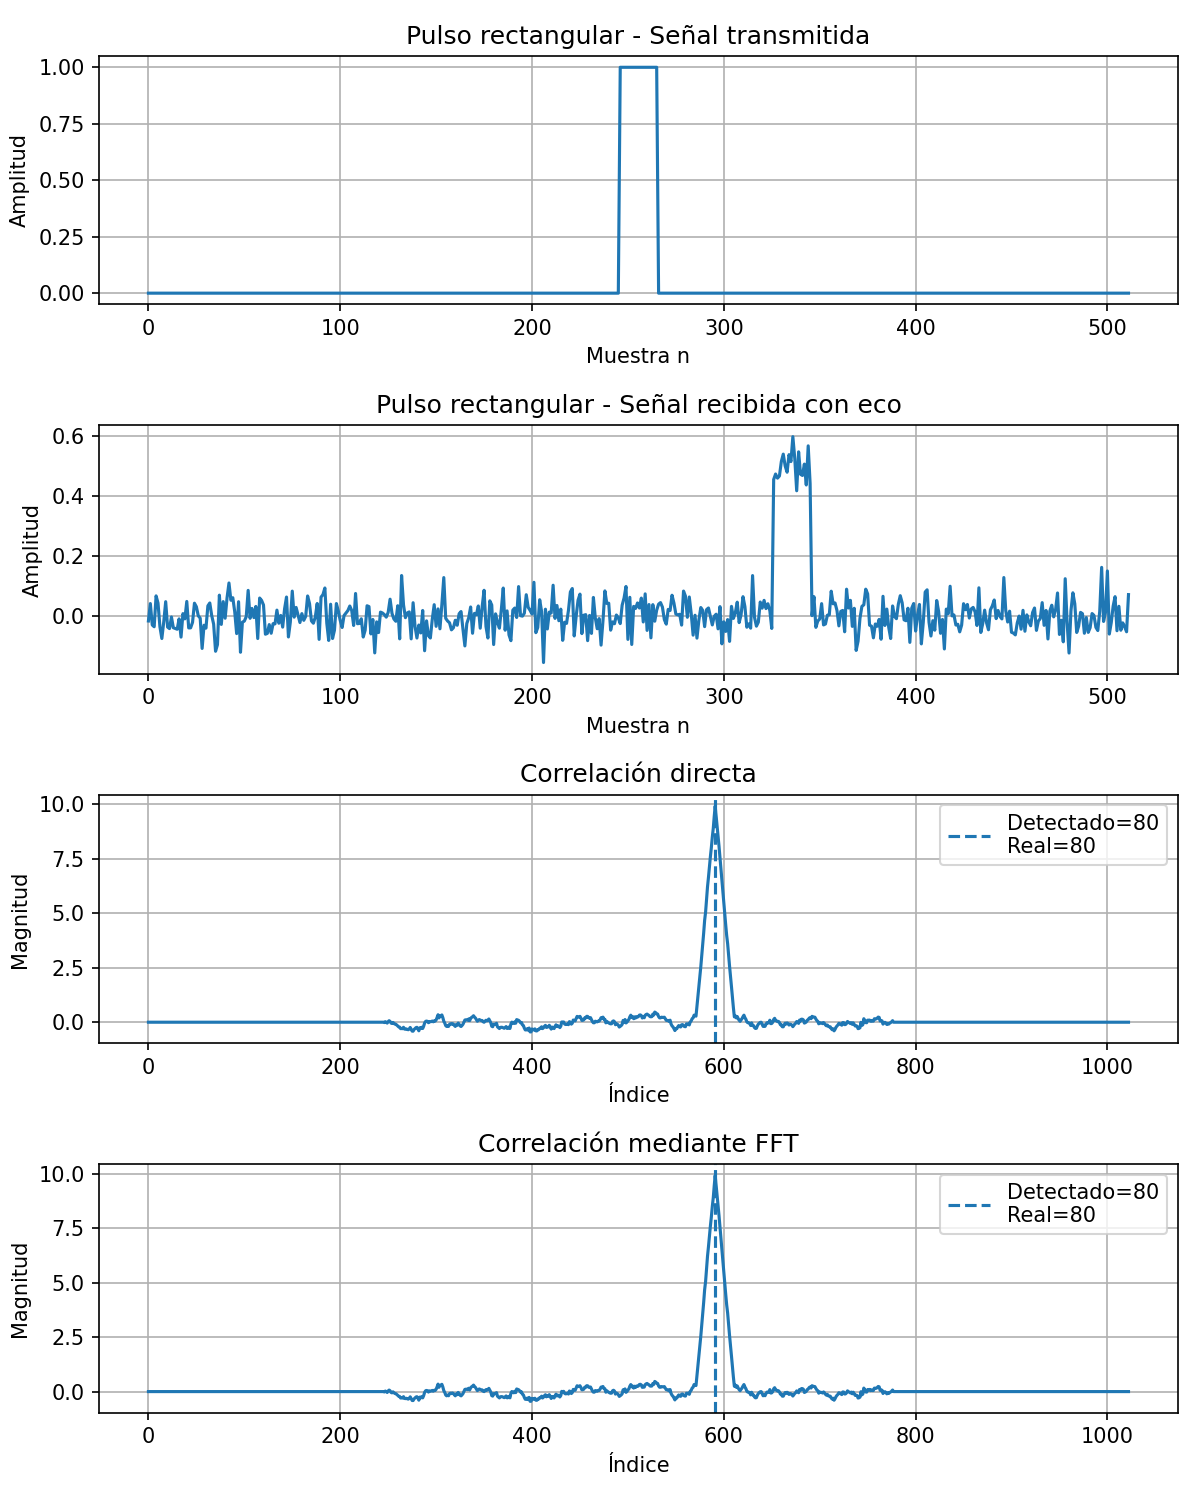
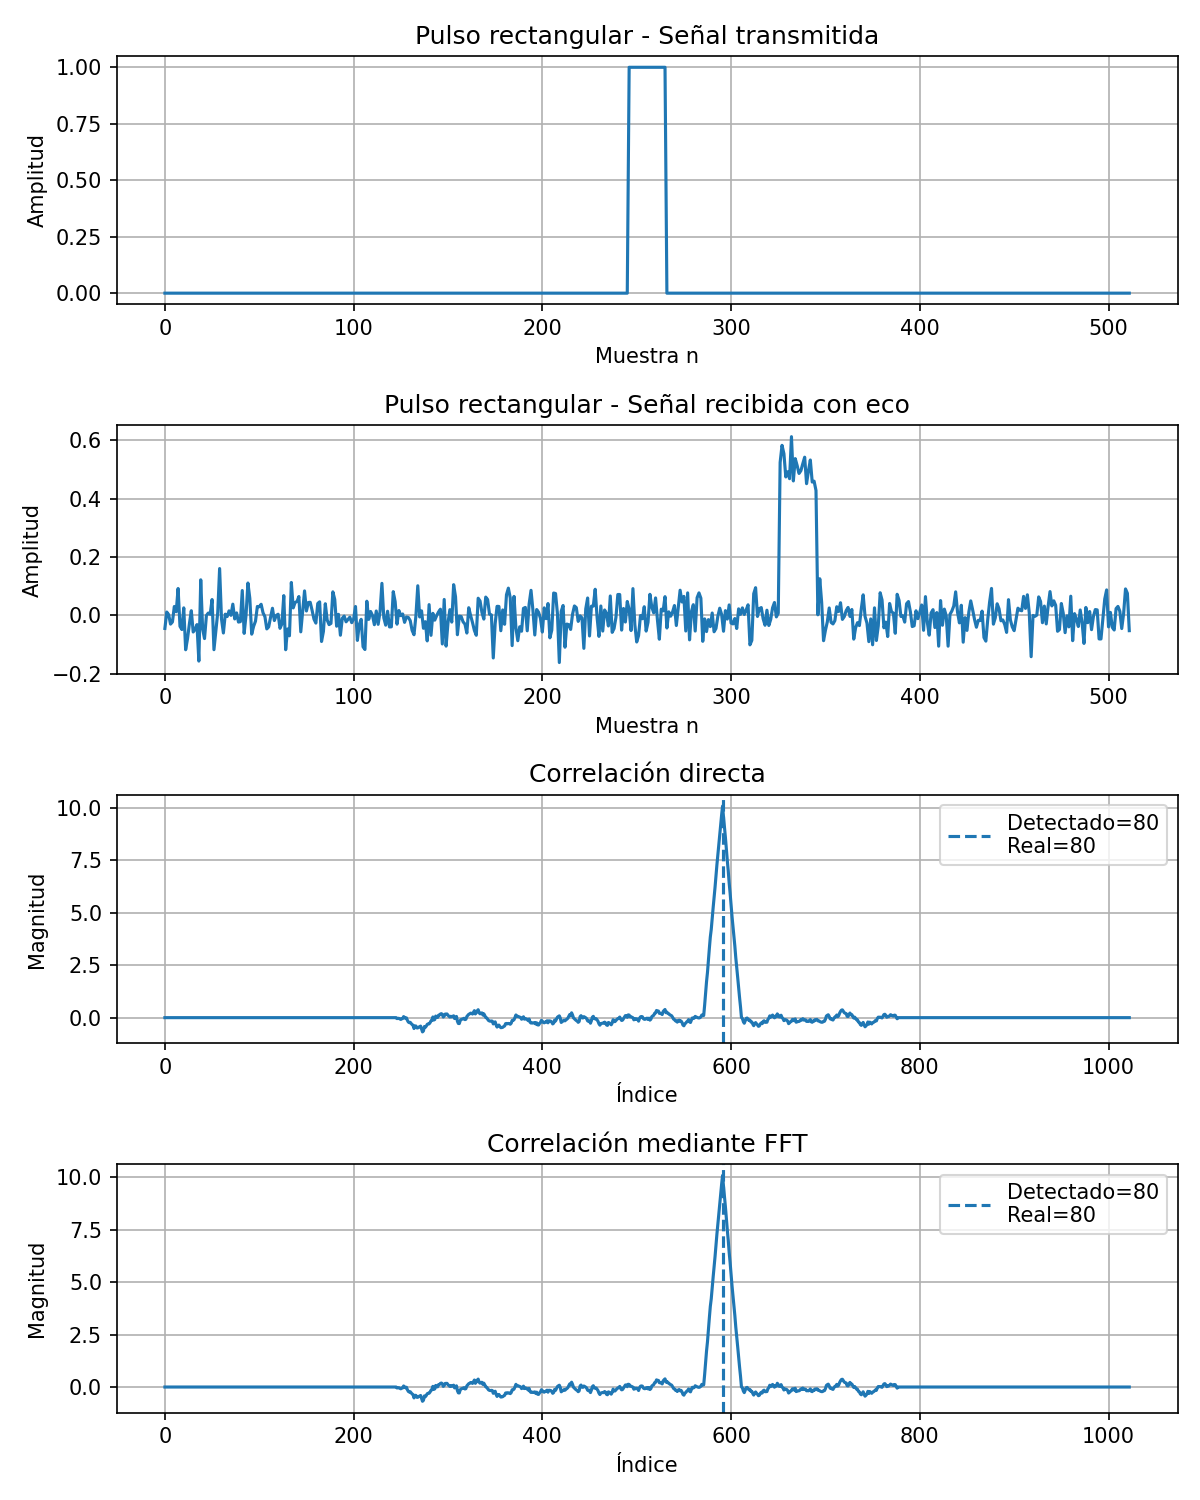
[Update] Make files and code documentation

diff --git a/FFT&DFT/signals.py b/FFT&DFT/signals.py
@@ -1,14 +1,17 @@
 import numpy as np
 
+# Este archivo genera señales básicas utilizadas para pruebas de FFT, DFT y análisis espectral.
+# Cada función crea un tipo de señal distinta, útil para comparar cómo se comportan en frecuencia.
 
-# señal senoidal de una sola frecuencia f0 (Hz), muestreada a fs (Hz)
+
+# Señal senoidal de una sola frecuencia f0 (Hz), muestreada a fs (Hz).
 def tono_puro(N, fs, f0, amplitud=1.0):
     n = np.arange(N)
     t = n / fs
     return amplitud * np.sin(2 * np.pi * f0 * t)
 
 
-#Suma de varias senoidales de distinta frecuencia
+# Suma de varias senoidales de distinta frecuencia.
 def suma_de_tonos(N, fs, frecuencias, amplitudes=None):
     if amplitudes is None:
         amplitudes = [1.0] * len(frecuencias)
@@ -20,21 +23,33 @@ def suma_de_tonos(N, fs, frecuencias, amplitudes=None):
         x += a * np.sin(2 * np.pi * f * t)
     return x
 
-#señal con ruido blanco gaussiano,relación señal a ruidoen dB
+
+# Señal con ruido blanco gaussiano, con una relación señal a ruido dada en dB.
 def senal_con_ruido(x, snr_db=20.0):
     potencia_senal = np.mean(x ** 2)
     potencia_ruido = potencia_senal / (10 ** (snr_db / 10))
     ruido = np.sqrt(potencia_ruido) * np.random.randn(len(x))
     return x + ruido
 
-    #un solo pulso rectangular corto centrado dentro de una señal de N muestras
+
+# Señal de prueba para benchmarking: combina una senoide con un ruido leve.
+# Es útil para comparar tiempos de ejecución de FFT y DFT porque es repetible y realista.
+def senal_de_prueba_benchmark(N, f0=5.0, snr_db=20.0):
+    n = np.arange(N)
+    x = np.sin(2 * np.pi * f0 * n / N)
+    return senal_con_ruido(x, snr_db=snr_db)
+
+
+# Genera un solo pulso rectangular centrado dentro de la señal.
 def pulso_rectangular(N, ancho_pulso, amplitud=1.0):
     x = np.zeros(N)
     inicio = N // 2 - ancho_pulso // 2
     x[inicio:inicio + ancho_pulso] = amplitud
     return x
 
-#secuencia de pulsos rectangulares idénticos, igualmente espaciados -LA QUE YO PIENSO QUE NOS PUEDE SERVIR PARA EL PROYECTO
+
+# Genera varios pulsos rectangulares iguales y separados entre sí.
+# Es una señal útil para analizar ecos, detección de retrasos o patrones repetitivos.
 def secuencia_de_pulsos(N, ancho_pulso, num_pulsos, separacion, amplitud=1.0, inicio=0):
     x = np.zeros(N)
     pos = inicio
@@ -47,9 +62,8 @@ def secuencia_de_pulsos(N, ancho_pulso, num_pulsos, separacion, amplitud=1.0, in
     return x
 
 
-
-#este chirp es un barrido lineal de frecuencia, que va desde f_inicio hasta f_fin en N muestras
-#esta señal es la más compleja, pero es la que más papers tratan para lo q estamos haciendo.
+# Chirp lineal: la frecuencia cambia de forma progresiva de f_inicio a f_fin.
+# Esta señal es muy usada en procesamiento de señales porque tiene un espectro dinámico.
 def chirp_lineal(N, fs, f_inicio, f_fin, amplitud=1.0):
     n = np.arange(N)
     t = n / fs

diff --git a/FFT&DFT/graphics.py b/FFT&DFT/graphics.py
@@ -1,4 +1,9 @@
-"""Funciones compartidas para graficar señales, espectros y ecos."""
+"""Funciones compartidas para graficar señales, espectros y ecos.
+
+Este archivo ayuda a visualizar señales y también a analizar su contenido en frecuencia.
+Se usa para generar figuras de señales, magnitud y fase, así como para comparar
+la detección de ecos en señales transmitidas y recibidas.
+"""
 
 from pathlib import Path
 
@@ -19,6 +24,7 @@ CARPETA_GRAFICAS = Path(__file__).resolve().parent / "graphics"
 
 
 def _guardar_figura(fig, nombre, carpeta_graficas):
+    # Crea la carpeta si no existe y guarda la figura como imagen PNG.
     carpeta_graficas = Path(carpeta_graficas)
     carpeta_graficas.mkdir(parents=True, exist_ok=True)
     nombre_archivo = (
@@ -40,15 +46,18 @@ def _guardar_figura(fig, nombre, carpeta_graficas):
 
 def guardar_grafica_senal(nombre, x, fs, *, carpeta_graficas=CARPETA_GRAFICAS):
     """Guarda la señal en el tiempo y la magnitud y fase de su FFT."""
+    # Calcula la FFT de la señal para observar su contenido en frecuencia.
     X = fft_radix2(x)
     N_fft = len(X)
     frecuencias = np.fft.fftfreq(N_fft, d=1 / fs)
 
+    # Se toma solo la mitad positiva del espectro.
     mitad = N_fft // 2
     frecuencias_pos = frecuencias[:mitad]
     magnitud = np.abs(X[:mitad])
     fase = np.angle(X[:mitad])
 
+    # Se crean 3 subgráficas: tiempo, magnitud y fase.
     fig, (ax_tiempo, ax_mag, ax_fase) = plt.subplots(3, 1, figsize=(8, 8))
 
     ax_tiempo.plot(x)
@@ -82,6 +91,7 @@ def guardar_grafica_eco(
     carpeta_graficas=CARPETA_GRAFICAS,
 ):
     """Guarda las señales y sus correlaciones para la detección de ecos."""
+    # Muestra 4 gráficas: señal transmitida, señal recibida, correlación directa y correlación FFT.
     fig, axes = plt.subplots(4, 1, figsize=(8, 10))
 
     for ax, senal, titulo in (
@@ -115,7 +125,7 @@ def guardar_grafica_eco(
 
 
 def main():
-    # Datos que se deben modificar según lo que se quiera analizar.
+    # Se crean varias señales para observar su forma y su espectro.
     fs = 8000
     N = 256
 

diff --git a/FFT&DFT/comp_time.py b/FFT&DFT/comp_time.py
@@ -1,36 +1,45 @@
+# Compara el tiempo que tarda la DFT directa contra la FFT radix-2 para señales de distintos tamaños.
+# La idea es ver cómo cambia el rendimiento a medida que crece N.
+
 import time
-import numpy as np
 import matplotlib.pyplot as plt
 from pathlib import Path
 
 from dft import dft
 from fft import fft_radix2
+from signals import senal_de_prueba_benchmark
 
+# Carpeta donde se guarda la gráfica final
 CARPETA_GRAFICAS = Path(__file__).resolve().parent / "graphics"
 CARPETA_GRAFICAS.mkdir(exist_ok=True)
 
+# Tamaños de señal a probar.
+# N crece en potencias de 2 para comparar mejor el comportamiento.
 tamanos_N = [64, 128, 256, 512, 1024, 2048]
 
 tiempos_dft = []
 tiempos_fft = []
 tiempos_numpy = []
 
+# Se prueba cada tamaño de señal y se mide cuánto tarda cada método.
 for N in tamanos_N:
-    n = np.arange(N)
-    x = np.sin(2 * np.pi * 5 * n / N) + 0.3 * np.random.randn(N)
+    x = senal_de_prueba_benchmark(N)
 
+    # Medir tiempo de la DFT directa.
     inicio = time.perf_counter()
     dft(x)
     tiempos_dft.append(time.perf_counter() - inicio)
 
+    # Medir tiempo de la FFT propia.
     inicio = time.perf_counter()
     fft_radix2(x)
     tiempos_fft.append(time.perf_counter() - inicio)
 
+    # Mostrar resultados por consola.
     print(f"N={N:5d} | DFT directa: {tiempos_dft[-1]:.5f}s | "
           f"FFT propia: {tiempos_fft[-1]:.5f}s | ")
 
-# --- Gráfica log-log ---
+# Se usa escala logarítmica para comparar mejor la tendencia de crecimiento.
 plt.figure(figsize=(7, 5))
 plt.loglog(tamanos_N, tiempos_dft, "o-", label="DFT directa (O(N²))")
 plt.loglog(tamanos_N, tiempos_fft, "s-", label="FFT radix-2 propia (O(N log N))")
@@ -40,5 +49,5 @@ plt.title("Comparación de tiempos: DFT directa vs. FFT radix-2")
 plt.legend()
 plt.grid(True, which="both", linestyle="--", alpha=0.5)
 plt.tight_layout()
-plt.savefig(CARPETA_GRAFICAS /"comparacion_tiempos.png", dpi=150)
+plt.savefig(CARPETA_GRAFICAS / "comparacion_tiempos.png", dpi=150)
 print("\nGráfica guardada como comparacion_tiempos.png")

diff --git a/FFT&DFT/fft.py b/FFT&DFT/fft.py
@@ -1,8 +1,8 @@
 #n debe de ser potencia de 2 para radix-2 sino ocupamos hacer zero padding
 import numpy as np
 
-
 def _siguiente_potencia_de_2(n):
+    # Calcula la siguiente potencia de 2 mayor o igual que n.
     potencia = 1
     while potencia < n:
         potencia *= 2
@@ -10,35 +10,44 @@ def _siguiente_potencia_de_2(n):
 
 
 def fft_radix2(x):
+    # Convierte la entrada a una secuencia compleja.
     x = np.asarray(x, dtype=complex)
     N_original = len(x)
     N_pad = _siguiente_potencia_de_2(N_original)
 
+    # Si la longitud no es potencia de 2, se agrega padding con ceros.
     if N_pad != N_original:
         x = np.concatenate([x, np.zeros(N_pad - N_original, dtype=complex)])
 
+    # Llama a la versión recursiva de la FFT.
     return _fft_recursiva(x)
 
 
 def _fft_recursiva(x):
     N = len(x)
+
+    # Caso base: una sola muestra, la transformada es la misma muestra.
     if N == 1:
         return x
 
+    # La FFT radix-2 exige que N sea par y potencia de 2.
     if N % 2 != 0:
         raise ValueError("N debe ser potencia de 2 para radix-2.")
 
+    # Se separa la señal en índices pares e impares.
     pares = _fft_recursiva(x[0::2])
     impares = _fft_recursiva(x[1::2])
 
     X = np.zeros(N, dtype=complex)
     mitad = N // 2
 
+    # La operación de "mariposa" combina las dos mitades usando el factor de giro.
     for k in range(mitad):
         # W_N^k = exp(-j*2*pi*k/N)
         factor_giro = np.exp(-2j * np.pi * k / N) * impares[k]
 
-        # op mariposa
+        # F[k] = E[k] + W_N^k * O[k]
+        # F[k + N/2] = E[k] - W_N^k * O[k]
         X[k] = pares[k] + factor_giro
         X[k + mitad] = pares[k] - factor_giro
 

diff --git a/FFT&DFT/dft.py b/FFT&DFT/dft.py
@@ -1,15 +1,19 @@
-
 import numpy as np
 
-#implementation of the DTF
+# Esta función implementa la Transformada Discreta de Fourier (DFT) simple. Se toma una señal x[n] y calcula sus componentes frecuenciales X[k].
+# Se hace con dos ciclos anidados, por eso su costo es O(N²).
 
 def dft(x):
+    # Convierte la entrada a un arreglo complejo para operar con números complejos.
     x = np.asarray(x, dtype=complex)
     N = len(x)
     X = np.zeros(N, dtype=complex)
 
+    # k representa cada frecuencia que queremos calcular.
     for k in range(N):
         suma = 0.0 + 0.0j
+
+        # n recorre cada muestra de la señal para sumar su contribución.
         for n in range(N):
             angulo = -2j * np.pi * k * n / N
             suma += x[n] * np.exp(angulo)

diff --git a/README.md b/README.md
@@ -1,14 +1,115 @@
 # Acoustic-Radar
-Primer Proyecto del curso de Analisis de Señales Mixtas
 
+Primer proyecto del curso de Análisis de Señales Mixtas.
 
-### Sistema de radar acústico capaz de detectar un objeto y estimar su distancia mediante el análisis del eco producido por una señal acústica conocida.
+## Descripción del proyecto
 
+Sistema de radar acústico capaz de detectar un objeto y estimar su distancia mediante el análisis del eco producido por una señal acústica conocida.
 
-## Estapa 1: Investigación de conceptos y herramientas
-
+## Etapa 1: Investigación de conceptos y herramientas
 
 ## Etapa 2: Implementación de la DFT y FFT
-En esta etapa se implementaron las funciones de la DFT y la FFT radix-2, y se compararon sus tiempos de ejecución para diferentes tamaños de señal. Se generaron gráficas log-log para visualizar la eficiencia de cada algoritmo. Además, se generan graficas de magnitud y fase para diferentes señales de prueba para analizar los principales efectos de cada una de las señales.
 
-Para ejecutar esta etapa, ejecute make all.
+En esta etapa se desarrollaron las funciones de:
+
+- DFT directa
+- FFT radix-2
+- señales de prueba básicas (seno, suma de tonos, pulso rectangular, secuencia de pulsos, chirp)
+- comparación de tiempos de ejecución para distintos tamaños de señal
+- visualización de magnitud y fase del espectro
+
+La carpeta FFT&DFT incluye los módulos:
+
+- dft.py: implementación de la transformada discreta de Fourier
+- fft.py: FFT radix-2 propia
+- signals.py: generadores de señales
+- graphics.py: exportación de gráficas de tiempo y frecuencia
+- comp_time.py: benchmarking de tiempos entre DFT y FFT
+
+---
+
+## Etapa 3: Detección de eco y estimación de distancia
+
+Se modela un eco acústico con:
+
+- retardo temporal
+- atenuación
+- ruido gaussiano aditivo
+
+La señal recibida se compara contra la transmitida usando:
+
+- correlación directa
+- correlación mediante FFT
+
+Esto permite estimar el retardo del eco y, conociendo la velocidad del sonido, aproximar la distancia del objeto.
+
+La carpeta Files_ED contiene:
+
+- echo_model.py: generación del eco simulado
+- correlation.py: método directo de correlación
+- fft_correlation.py: correlación basada en FFT propia
+- plots_echo.py: adaptación para guardar gráficas comparativas
+- main.py: experimento principal con varias señales de prueba
+
+---
+
+## Ejecución
+
+El proyecto se ejecuta con el Makefile principal:
+
+```bash
+make all
+```
+
+Este comando ejecuta las siguientes tareas:
+
+- genera gráficas de FFT/DFT y análisis espectral
+- compara tiempos de ejecución entre DFT y FFT
+- ejecuta el experimento de detección de ecos
+
+También puede ejecutarse cada bloque por separado:
+
+```bash
+make graphics
+make comp_time
+make files_ed
+```
+
+---
+
+## Estructura del repositorio
+
+```text
+Acoustic-Radar/
+├── Makefile
+├── README.md
+├── FFT&DFT/
+│   ├── dft.py
+│   ├── fft.py
+│   ├── signals.py
+│   ├── graphics.py
+│   ├── comp_time.py
+│   └── graphics/
+├── Files_ED/
+│   ├── main.py
+│   ├── echo_model.py
+│   ├── correlation.py
+│   ├── fft_correlation.py
+│   ├── plots_echo.py
+│   └── graphics/
+└── ...
+```
+
+---
+
+## Resultados esperados
+
+Durante la ejecución se generan imágenes en las carpetas graphics de cada módulo:
+
+- comparacion_tiempos.png: rendimiento de DFT vs FFT
+- gráficos de señales, magnitud y fase
+- gráficos de eco y correlación para cada señal de prueba
+
+Esto permite visualizar tanto el comportamiento espectral como la capacidad del sistema para detectar ecos y estimar retardos.
+
+---
